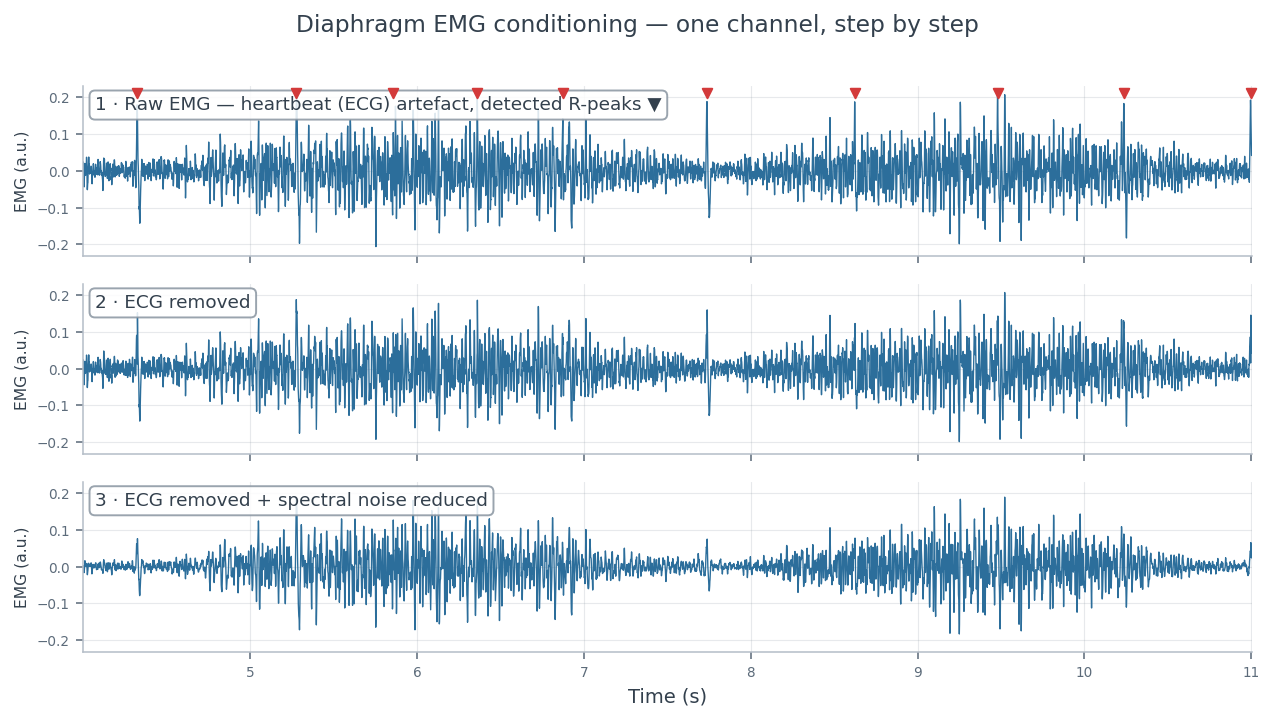
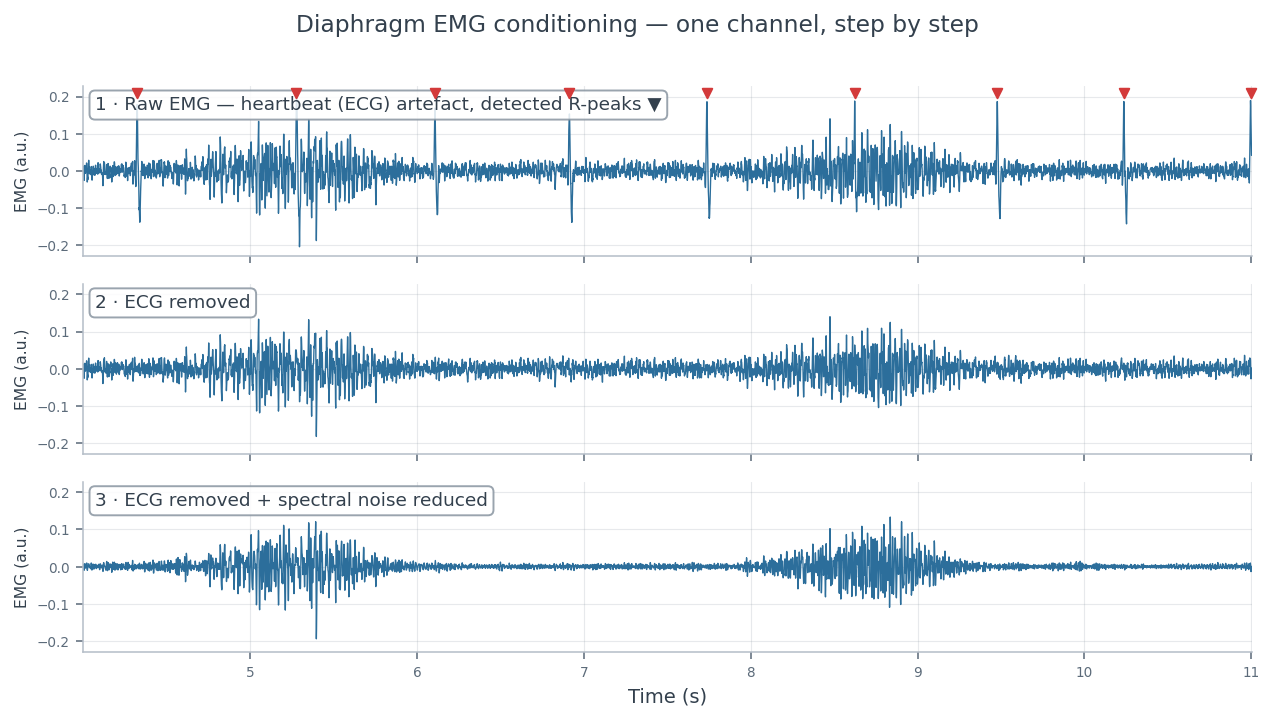
Sample EMG: confine bursts to inspiration, coordinated with flow
The synthetic diaphragm-EMG burst spanned the whole breath, so it never went quiet and
there was no gap between bursts. It is now confined to INSPIRATION (the negative-flow
first half of the breath): it rises from inspiration onset, crescendos to a peak late in
inspiration, decrescendos back to near-silent by end-inspiration, and is quiet through
expiration — leaving a clear gap over each expiration. Because the burst, the flow and
the Poes/Pgas swings are all built from the same breath timing, they stay coordinated.

A tonic between-burst floor is kept during breathing (realistic) but not during the rest
lead-in, so the noise reference stays clean. Regenerated the README graphics: the EMG
stages now show distinct inspiratory bursts with quiet gaps in which the heartbeat (ECG)
artefact stands out and the noise reduction is clearly visible.

Deterministic; 51 sample-binding tests (test_core_outputs, test_startup_flow) pass.

diff --git a/src/respmech/core/sample.py b/src/respmech/core/sample.py
@@ -140,7 +140,16 @@ def _one_breath(rng, T, vt):
     flow = -dvdt                                                   # inspiration → flow negative
     poes_el = POES_EE - ELASTANCE * vol - ELASTANCE_CURV * vol ** 2
     pgas = PGAS_EE + (PGAS_SWING / vt) * vol
-    env = np.clip(np.sin(np.pi * t / T), 0, None) ** 1.2           # inspiratory-weighted burst
+    # EMG burst confined to INSPIRATION (the negative-flow first half): it rises from
+    # inspiration onset, crescendos to a peak late in inspiration, decrescendos back to
+    # near-silent by end-inspiration, and is quiet through expiration — so successive
+    # bursts sit over the inspirations with a clear gap (the expiration) between them,
+    # coordinated with flow (hence with the Poes/Pgas swings built from the same breath).
+    u = t / (0.5 * T)                                             # 0..1 over inspiration, >1 after
+    up = 0.65                                                     # burst peaks late in inspiration
+    rise = np.clip(u / up, 0, 1) ** 1.3
+    fall = np.clip((1.0 - u) / (1.0 - up), 0, 1) ** 1.6
+    env = np.where(u <= 1.0, np.where(u < up, rise, fall), 0.0)
     return vol, flow, poes_el, pgas, env
 
 
@@ -165,9 +174,12 @@ def _signals():
     poes_el = np.concatenate(poesel_all); pgas = np.concatenate(pgas_all)
     env = np.concatenate(env_all)
     n = len(flow)
-
-    # the neural drive leads the flow slightly — advance the burst envelope by ~80 ms
-    env = np.roll(env, -int(0.08 * FS)); env[-int(0.08 * FS):] = 0.0
+    # the neural drive leads the flow slightly — advance the burst envelope by ~50 ms
+    lead = int(0.05 * FS)
+    env = np.roll(env, -lead); env[-lead:] = 0.0
+    # the tonic (between-burst) EMG floor is present only while breathing; the rest lead-in
+    # stays pure noise so [0, LEAD_S] is a clean reference for spectral noise reduction
+    breathing = np.ones(n); breathing[:nlead] = 0.0
 
     beats = _heartbeat_impulses(n, rng)                            # one shared cardiac clock
     ecg = _ecg_signal(beats, n)                                    # sharp QRS on the EMG
@@ -176,11 +188,11 @@ def _signals():
     # EMG channels: band-limited-noise carrier, inspiratory burst over a tonic floor,
     # + the heartbeat artefact (centre-weighted) + a coloured noise floor
     burst_peak = 0.06
-    tonic = 0.18
+    tonic = 0.15
     emg = []
     for ch in range(N_EMG):
         carrier = _emg_carrier(n, rng)
-        amp = EMG_SCALE[ch] * burst_peak * (tonic + (1.0 - tonic) * env)
+        amp = EMG_SCALE[ch] * burst_peak * (tonic * breathing + (1.0 - tonic) * env)
         floor = _coloured_noise(n, rng, amp=0.12 * EMG_SCALE[ch] * burst_peak)
         r_amp = 3.0 * EMG_SCALE[ch] * burst_peak                   # R clearly above the burst
         emg.append(amp * carrier + floor + ECG_SCALE[ch] * r_amp * ecg)
